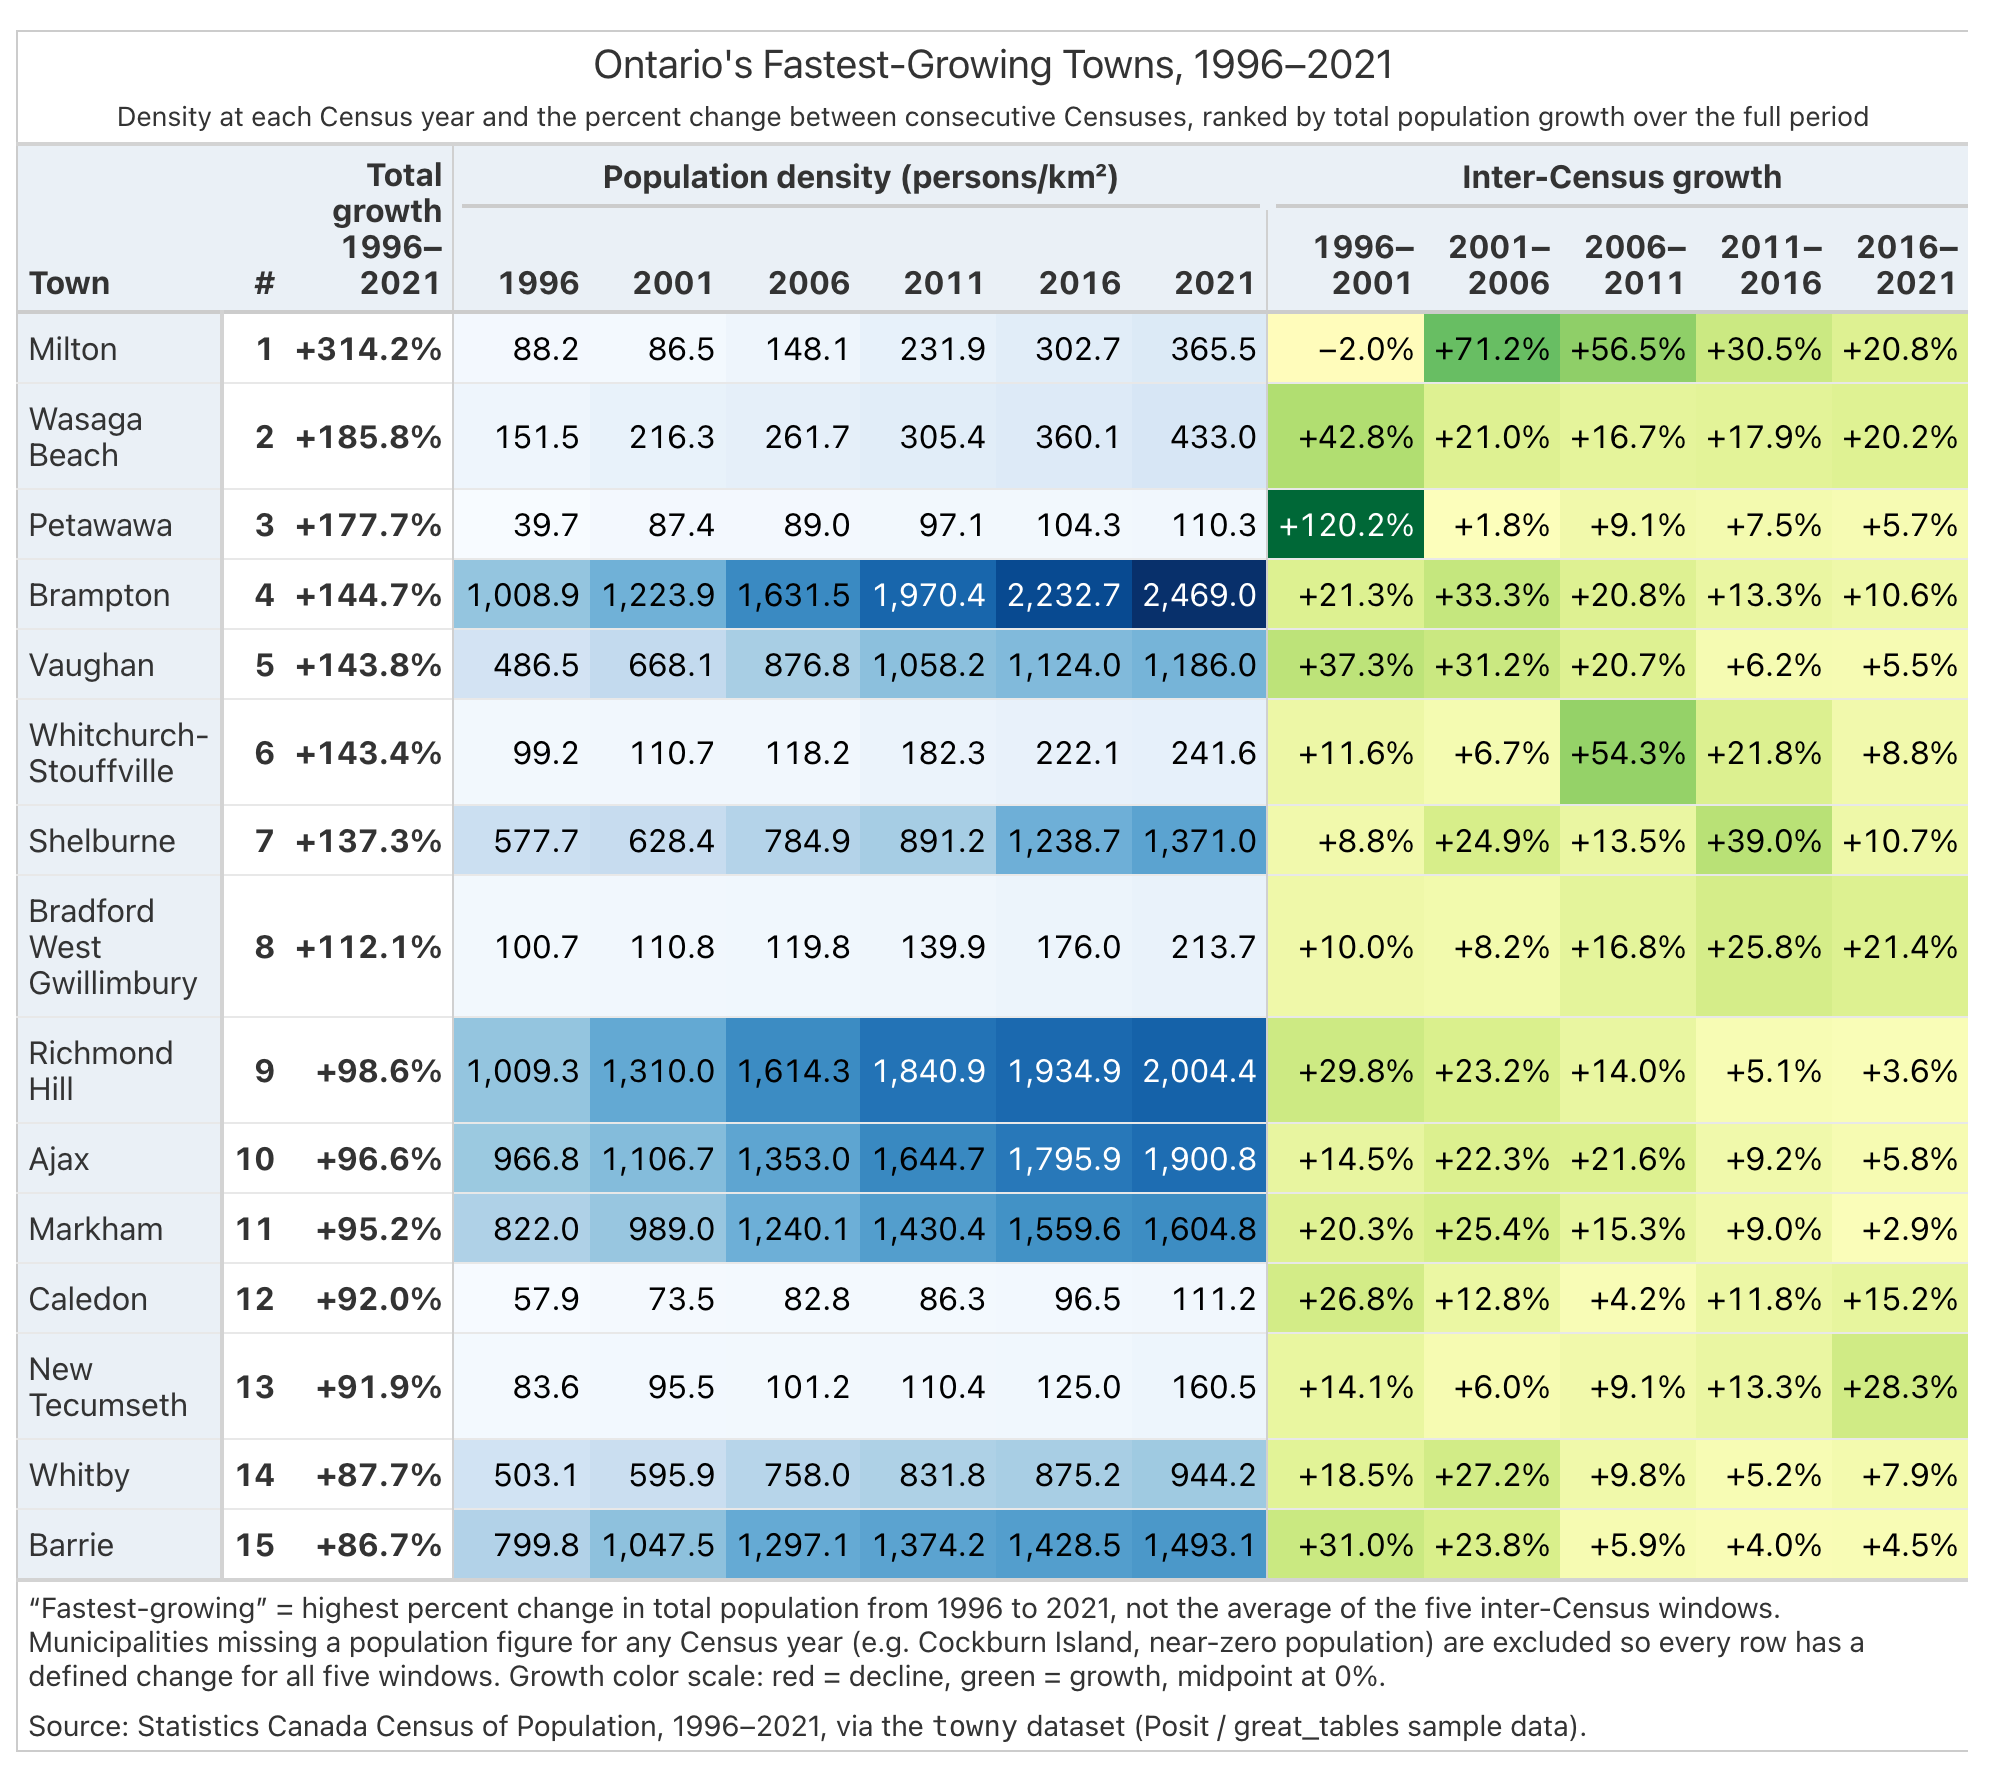
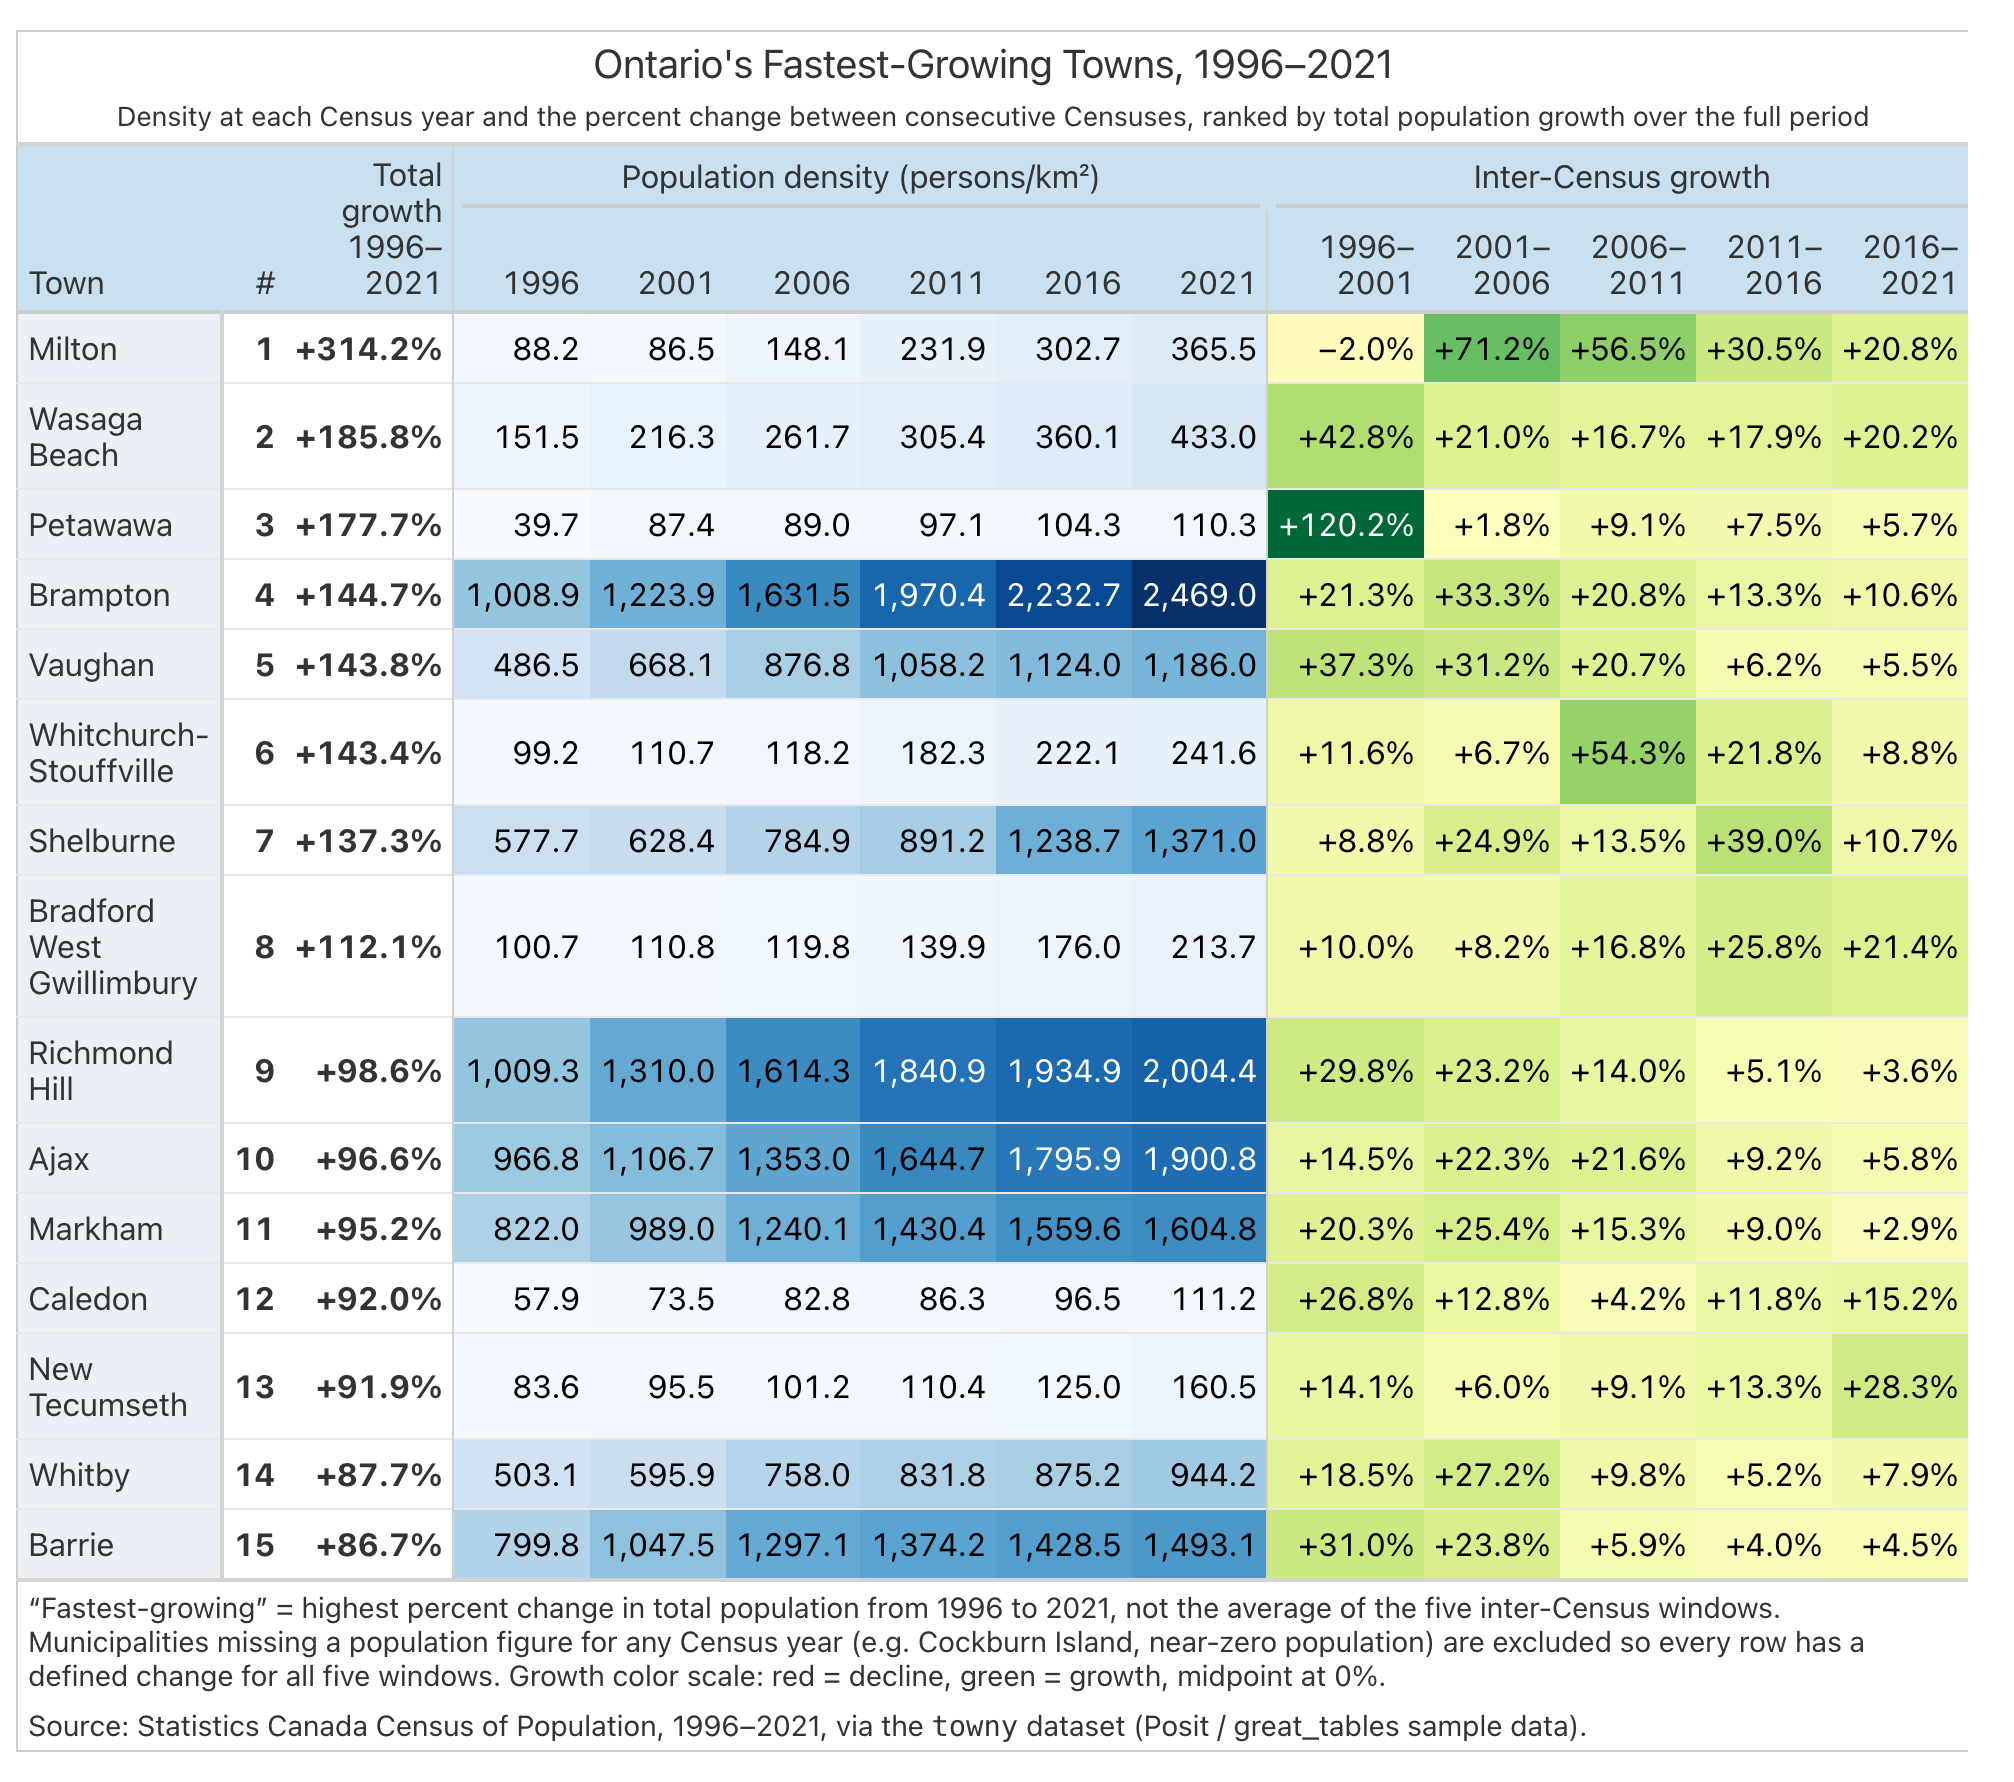
fix(ground-truth): align towny band/stub tint with house skill's hierarchy
The great-tables-house skill (merged to main) differentiates the column-label
band (the louder accent_tint, e.g. navy #C9E0F0) from the stub tint (the
quieter washed, e.g. navy #EAF0F6) -- two distinct strengths of the same hue
so the band stays the more prominent surface. This ground truth predated that
distinction and used the same washed hex for both, so band and stub read as
identical strength. Switched the band fill to accent_tint navy (matching the
density heatmap's Blues family, per the DA hue-selection rule), kept the stub
at washed navy, and dropped the extra column_labels_font_weight bold (not
part of the house band() pattern). Re-rendered the PNG. All other aspects of
this ground truth (frame, ≤2 colored measures, spanners, stub, missing-value
handling, no striping/grouping/summary row) were already house-compliant.

Verified via self-comparison on the gtc/comparator branch (still 92/92, and
surfaced/fixed a real _classify_hue gap there for the new accent/accent_tint
hexes -- see that branch's own fix commit).

Changed region(s): [[0.0, 0.0617, 0.9851, 0.1852]]

diff --git a/prompts/hard/ground_truth/towny_growth_trends.py b/prompts/hard/ground_truth/towny_growth_trends.py
@@ -198,13 +198,16 @@ gt = (
     # Hero, uncolored measure (rank + the whole-period growth that drove
     # the ranking) gets bold text rather than a third fill.
     .tab_style(style=style.text(weight="bold"), locations=loc.body(columns=["rank", "total_growth_pct"]))
-    # Light heading band (Big Color present) — washed tint of the primary
-    # measure's hue (Blues, prompt-named first), not a dark saturated band.
+    # Column-label band — house DEFAULT shade="light": the MORE-visible
+    # accent_tint (navy — matches the density heatmap's Blues family, per
+    # the DA hue-selection rule: match an existing heatmap hue first), not
+    # a dark saturated band (that's reserved for a table with no heatmap at
+    # all, and this one has two).
     .tab_options(
-        column_labels_background_color="#EAF0F6",
-        column_labels_font_weight="bold",
+        column_labels_background_color="#C9E0F0",
         column_labels_border_bottom_color="#CCCCCC",
         column_labels_border_bottom_width="2px",
+        column_labels_border_bottom_style="solid",
         table_body_hlines_style="solid",
         table_body_hlines_color="#E8E8E8",
         table_body_hlines_width="1px",
@@ -213,7 +216,10 @@ gt = (
         table_border_left_style="solid", table_border_left_color="#CCCCCC", table_border_left_width="1px",
         table_border_right_style="solid", table_border_right_color="#CCCCCC", table_border_right_width="1px",
     )
-    # Stub tint harmonized to the same washed-Blues theme as the band.
+    # Stub tint — the quieter washed navy, one tier down from the band, so
+    # the stub stays subtler than the louder column-label band above it
+    # rather than competing with it (the band/stub hierarchy from the
+    # great-tables-house skill).
     .tab_style(style=style.fill(color="#EAF0F6"), locations=loc.stub())
     # Column-group dividers at each spanner boundary only.
     .tab_style(style=style.borders(sides="right", color="#D0D0D0", weight="1px"), locations=loc.body(columns="total_growth_pct"))
